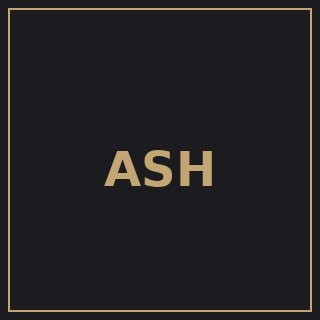
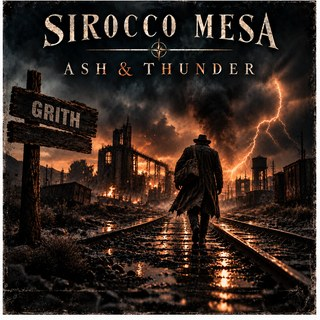
SMARTLINK-004: Ash & Thunder real tile art + Custom Listen CTAs
Replace plain ASH placeholder with locked Grith Ditto cover.
Point Grith/Shadow Riders hub song rows to ash-and-thunder.html
(not ditto.fm primary). Update smartlinks.json registry.

diff --git a/ash-and-thunder.html b/ash-and-thunder.html
@@ -320,7 +320,7 @@ footer { text-align:center;color:#9e968d;font-size:11px;line-height:1.5;margin-t
 
   <div style="height:18px"></div>
   <div class="song-list">
-    <a class="song-link" href="https://ditto.fm/grith" target="_blank" rel="noopener noreferrer">
+    <a class="song-link" href="https://siroccomesa.github.io/sirocco-mesa-stream-save/ash-and-thunder.html" target="_blank" rel="noopener noreferrer">
     <div class="song live-link">
       <div>
         <div class="song-name">Grith</div>
@@ -330,7 +330,7 @@ footer { text-align:center;color:#9e968d;font-size:11px;line-height:1.5;margin-t
       <div class="badge live">LIVE</div>
     </div>
   </a>
-<a class="song-link" href="https://ditto.fm/shadow-riders" target="_blank" rel="noopener noreferrer">
+<a class="song-link" href="https://siroccomesa.github.io/sirocco-mesa-stream-save/ash-and-thunder.html" target="_blank" rel="noopener noreferrer">
     <div class="song live-link">
       <div>
         <div class="song-name">Shadow Riders</div>
